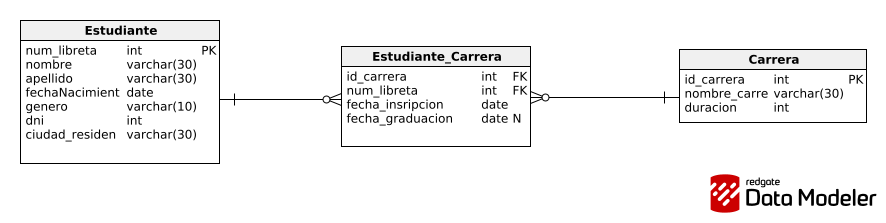
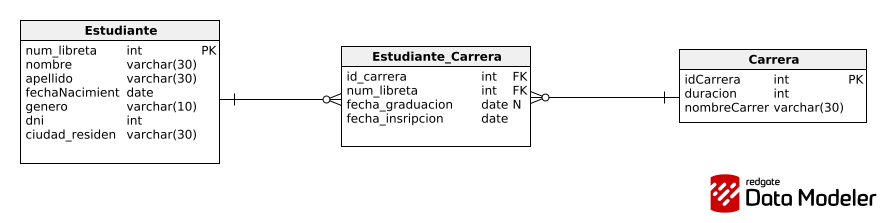
Pruebas del main

diff --git a/Entrega2/src/main/java/org/example/Main.java b/Entrega2/src/main/java/org/example/Main.java
@@ -1,9 +1,12 @@
 package org.example;
 
+import Entity.Estudiante;
 import Repository.CarreraImple;
 import Repository.EstudianteCarreraImple;
 import Repository.EstudianteImple;
 import Utils.CargaDedatosCsv;
+
+import java.time.LocalDate;
 
 public class Main {
     public static void main(String[] args) {
@@ -16,22 +19,40 @@ public class Main {
 
 //        System.out.println("Carga Inicial");
 
-//        EstudianteImple estudianteRepo = new EstudianteImple();
-//
-//        System.out.println("\n--- c) Estudiantes ordenados ---");
-//        estudianteRepo.getEstudiantesInOrder().forEach(System.out::println);
-//
-//        System.out.println("\n--- d) Estudiante por libreta ---");
-//        System.out.println(estudianteRepo.getEstudiantePorNumLibreta(34978L));
-//
-//        System.out.println("\n--- e) Estudiantes por genero ---");
-//        estudianteRepo.getEstudiantesPorGenero("Male").forEach(System.out::println);
-//
-//        System.out.println("\n--- g) Estudiantes por carrera y ciudad ---");
-//        estudianteRepo.getEstudiantesPorCarreraYCiudad(15L, "Jiaoyuan").forEach(System.out::println);
-//
-//        System.out.println("\n--- f) Carreras por cantidad de inscriptos ---");
-//        new CarreraImple().getCarrerasPorCantidadInscriptos().forEach(System.out::println);
+        EstudianteImple estudianteRepo = new EstudianteImple();
+
+        System.out.println("\n--- a) Alta de estudiante ---");
+        Estudiante nuevoEstudiante = new Estudiante();
+        nuevoEstudiante.setNum_libreta(99999L);
+        nuevoEstudiante.setDni(40123456L);
+        nuevoEstudiante.setNombre("Juan");
+        nuevoEstudiante.setApellido("Perez");
+        nuevoEstudiante.setFechaNacimiento(LocalDate.now().minusYears(20));
+        nuevoEstudiante.setGenero("Male");
+        nuevoEstudiante.setCiudadResidencia("La Plata");
+
+        estudianteRepo.insertEstudiante(nuevoEstudiante);
+        System.out.println("Estudiante insertado");
+
+        System.out.println("\n--- b) Matricular estudiante en carrera ---");
+        estudianteRepo.matricularEstudiante(nuevoEstudiante.getNum_libreta(), 15L);
+        System.out.println("Estudiante " + nuevoEstudiante.getNombre() + " " + nuevoEstudiante.getApellido() +
+                " matriculado en la carrera con id 15");
+
+        System.out.println("\n--- c) Estudiantes ordenados ---");
+        estudianteRepo.getEstudiantesInOrder().forEach(System.out::println);
+
+        System.out.println("\n--- d) Estudiante por libreta ---");
+        System.out.println(estudianteRepo.getEstudiantePorNumLibreta(34978L));
+
+        System.out.println("\n--- e) Estudiantes por genero ---");
+        estudianteRepo.getEstudiantesPorGenero("Male").forEach(System.out::println);
+
+        System.out.println("\n--- f) Carreras por cantidad de inscriptos ---");
+        new CarreraImple().getCarrerasPorCantidadInscriptos().forEach(System.out::println);
+
+        System.out.println("\n--- g) Estudiantes por carrera y ciudad ---");
+        estudianteRepo.getEstudiantesPorCarreraYCiudad(15L, "Jiaoyuan").forEach(System.out::println);
 
         System.out.println("\n--- 3) Reporte de inscriptos y egresados por año ---");
         new EstudianteCarreraImple().getReporteInscriptosYEgresadosPorAnio().forEach(rep ->

diff --git a/Entrega2/src/main/java/Repository/EstudianteCarreraImple.java b/Entrega2/src/main/java/Repository/EstudianteCarreraImple.java
@@ -22,7 +22,6 @@ public class EstudianteCarreraImple implements EstudianteCarreraInter {
 
     // 3) reporte de carreras: inscriptos y egresados por año, carreras ordenadas alfabéticamente
 
-    // NO vaaa esta malll
 
     @Override
     public List<ReporteCarreraDTO> getReporteInscriptosYEgresadosPorAnio() {

diff --git a/src/main/java/org/entrega1/Main.java b/src/main/java/org/entrega1/Main.java
@@ -64,6 +64,5 @@ public class Main {
 
         System.out.println("Clientes Ordenados" + clientesOrdenados);
 
-
     }
 }
